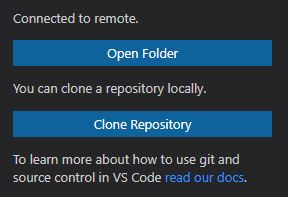
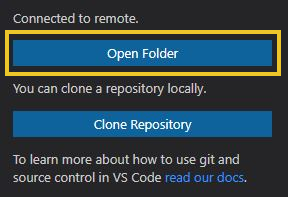
reviewed windows installation

Changed region(s): [[0.0, 0.1523, 1.0, 0.3959]]

diff --git a/src/chapters/ManualDeInstalacion.tex b/src/chapters/ManualDeInstalacion.tex
@@ -176,7 +176,7 @@ usuario en caso de que docker no esté previamente instalado.
     \item Fin de la instalación.
 \end{enumerate}
 
-\subsection{Instalación en sistemas operativos Windows}
+\subsection{Instalación en sistemas operativos Windows}\label{sec:install_win_flutter}
 
 \paragraph{}Tanto Visual Studio Code, como el \gls{SDK} de Flutter tienen versiones
 nativas para Windows. Aunque en principio, Flutter podría trabajar indistintamente en
@@ -240,14 +240,46 @@ trabajar son:
     \end{lstlisting}
 
     \item Abrir un entorno \gls{WSL2} en Visual Studio Code y abrir la carpeta del repositorio
-    previamente descargado.
-    blabla - insertar captura pantalla.
+    previamente descargado tal y como muestran las siguientes imágenes.
+
+    \begin{figure}[H]
+        \centering
+        \includegraphics[width=0.95\textwidth]{imgs/vscode-wsl2}
+        \caption[Botón para abrir Vscode en WSL2.]{Botón para abrir Vscode en WSL2.}
+        \label{imgs:vscde-wsl2}
+    \end{figure}
+
+    \begin{figure}[H]
+        \centering
+        \includegraphics[width=0.55\textwidth]{imgs/vscode-wsl2-2}
+        \caption[Abrir una carpeta.]{Abrir una carpeta.}
+        \label{imgs:vscde-wsl2-2}
+    \end{figure}
+
+    \begin{figure}[H]
+        \centering
+        \includegraphics[width=0.95\textwidth]{imgs/vscode-wsl2-3}
+        \caption[Selección de carpeta.]{Selección de carpeta.}
+        \label{imgs:vscde-wsl2-3}
+    \end{figure}
 
     \item Instalar la extension de Visual Studio Code de Flutter de la misma manera que
     en el paso anterior.
     \begin{lstlisting}[style=cmd]
         ext install Dart-Code.flutter
     \end{lstlisting}
+
+    \item Ejecutar el script de instalación de paquetes.
+    \begin{lstlisting}[style=consola, numbers=left]
+        $ sudo ./installDevEnv.sh
+    \end{lstlisting}
+
+    \item Ejecutar el script de obtención de dependencias.
+    \begin{lstlisting}[style=consola, numbers=left]
+        $ ./getSources.sh
+    \end{lstlisting}
+
+    \item Reiniciar Visual Studio Code.
 
     \item Fin de la instalación.
 \end{enumerate}
@@ -380,7 +412,7 @@ usuario en caso de que docker no esté previamente instalado.
     \item Ejecutar el script de instalación de paquetes.
     \begin{lstlisting}[style=consola, numbers=left]
         $ cd dev_env_rpi_flutter_yocto
-        $ sudo ./installDevDeps.sh
+        $ sudo ./installDevEnv.sh
     \end{lstlisting}
 
     \item (Opcional) En caso de necesitar instalar Visual Studio Code para el desarrollo,
@@ -397,7 +429,7 @@ usuario en caso de que docker no esté previamente instalado.
 
 \paragraph{}\textbf{Nota:} Este método es una prueba de concepto y el rendimiento puede
 verse visiblemente afectado. Como opción alternativa se aconseja crear una máquina
-virtual Ubunut 20.04 y seguir los consejos de la instalación en Linux de manera nativa.
+virtual Ubuntu 22.04 y seguir los consejos de la instalación en Linux de manera nativa.
 
 \paragraph{}\textbf{Nota 2:} Se requieren permisos de administrador.
 
@@ -441,13 +473,32 @@ virtual Ubunut 20.04 y seguir los consejos de la instalación en Linux de manera
     \end{lstlisting}
 
     \item Abrir un entorno \gls{WSL2} en Visual Studio Code y abrir la carpeta del repositorio
-    previamente descargado.
-    blabla - insertar captura pantalla.
+    previamente descargado tal y como muestran las siguientes imágenes.
+
+    \begin{figure}[H]
+        \centering
+        \includegraphics[width=0.95\textwidth]{imgs/vscode-wsl2}
+        \caption[Botón para abrir Vscode en WSL2.]{Botón para abrir Vscode en WSL2.}
+        \label{imgs:vscode-wsl2}
+    \end{figure}
+
+    \begin{figure}[H]
+        \centering
+        \includegraphics[width=0.55\textwidth]{imgs/vscode-wsl2-2}
+        \caption[Abrir una carpeta.]{Abrir una carpeta.}
+        \label{imgs:vscode-wsl2-2}
+    \end{figure}
+
+    \begin{figure}[H]
+        \centering
+        \includegraphics[width=0.95\textwidth]{imgs/vscode-wsl2-3}
+        \caption[Selección de carpeta.]{Selección de carpeta.}
+        \label{imgs:vscode-wsl2-3}
+    \end{figure}
 
     \item Ejecutar el script de instalación de paquetes.
     \begin{lstlisting}[style=consola, numbers=left]
-        $ cd dev_env_rpi_flutter_yocto
-        $ sudo ./installDevDeps.sh
+        $ sudo ./installDevEnv.sh
     \end{lstlisting}
 
     \item Fin de la instalación.
